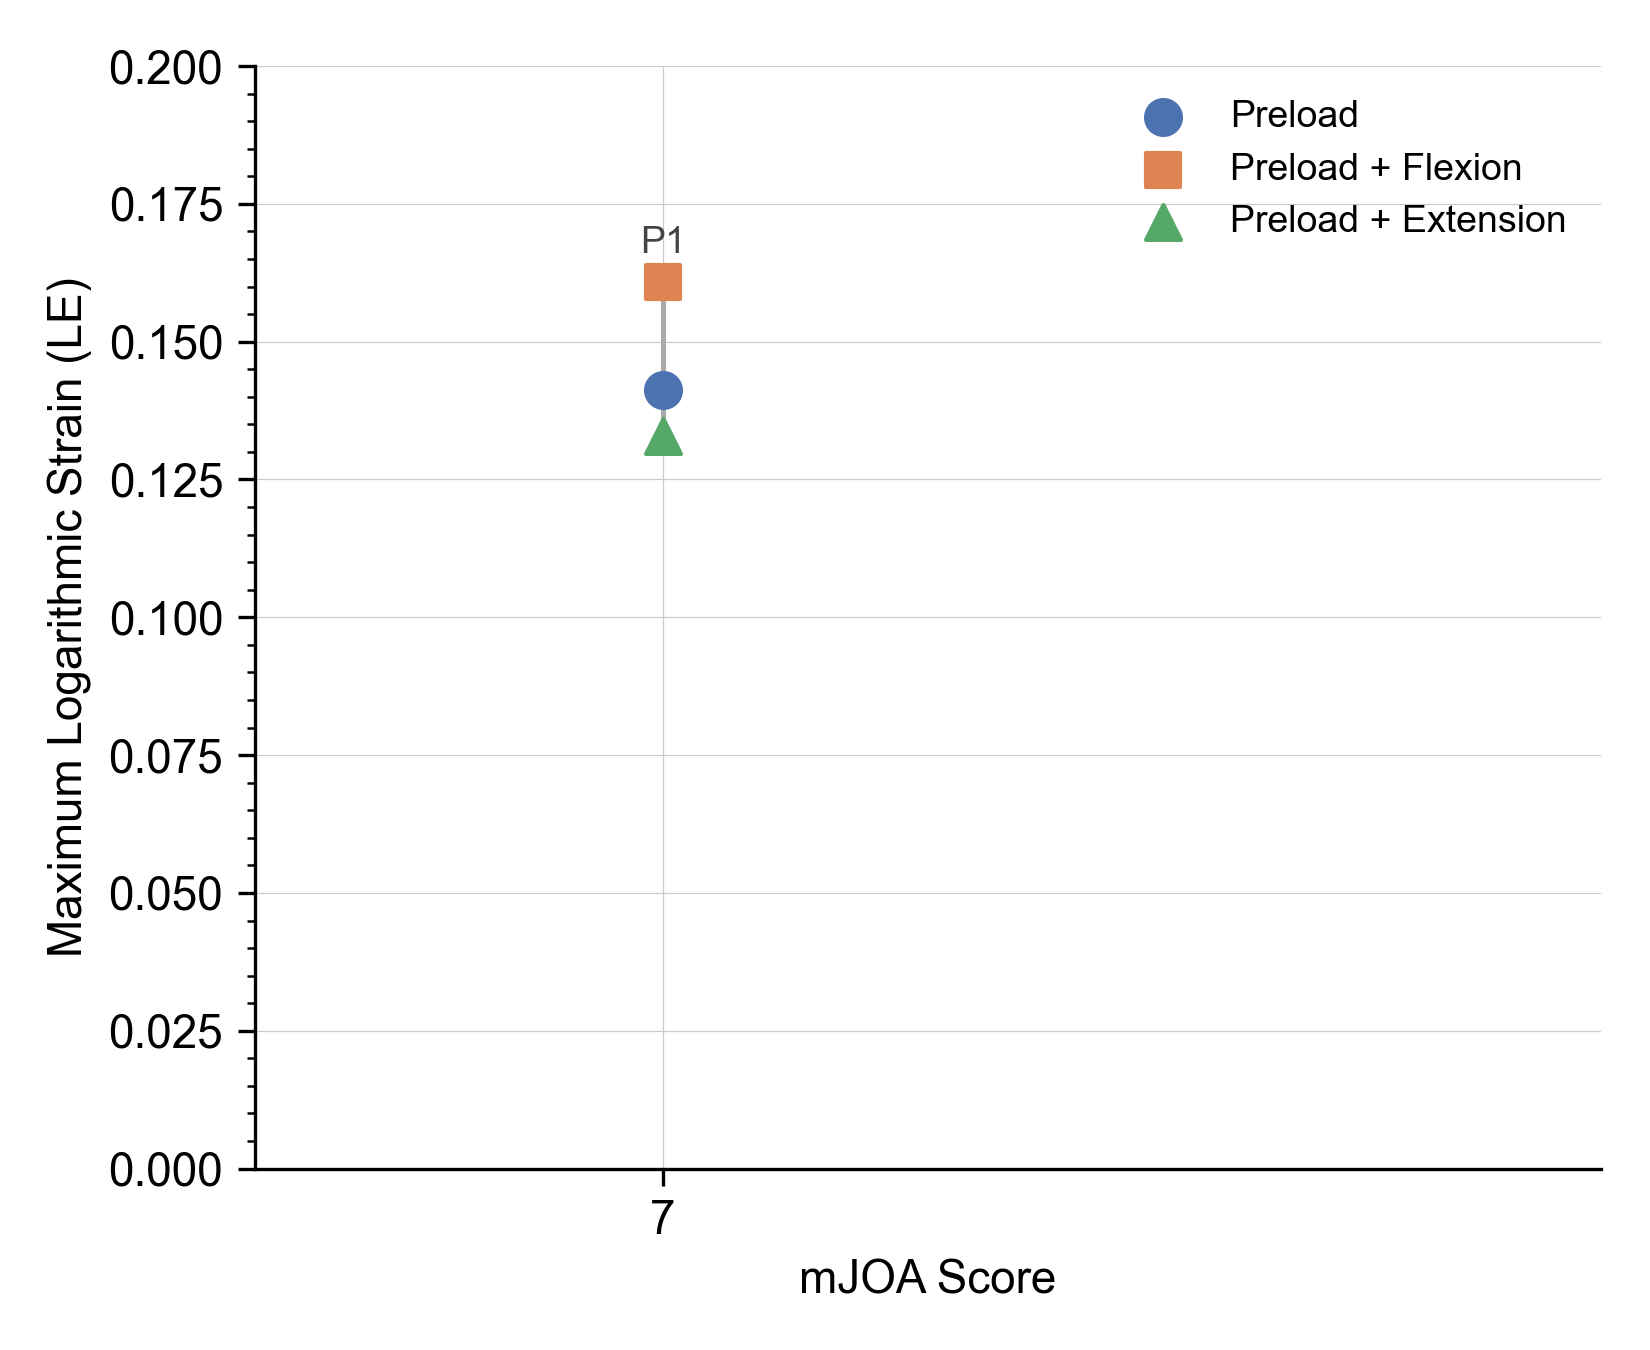
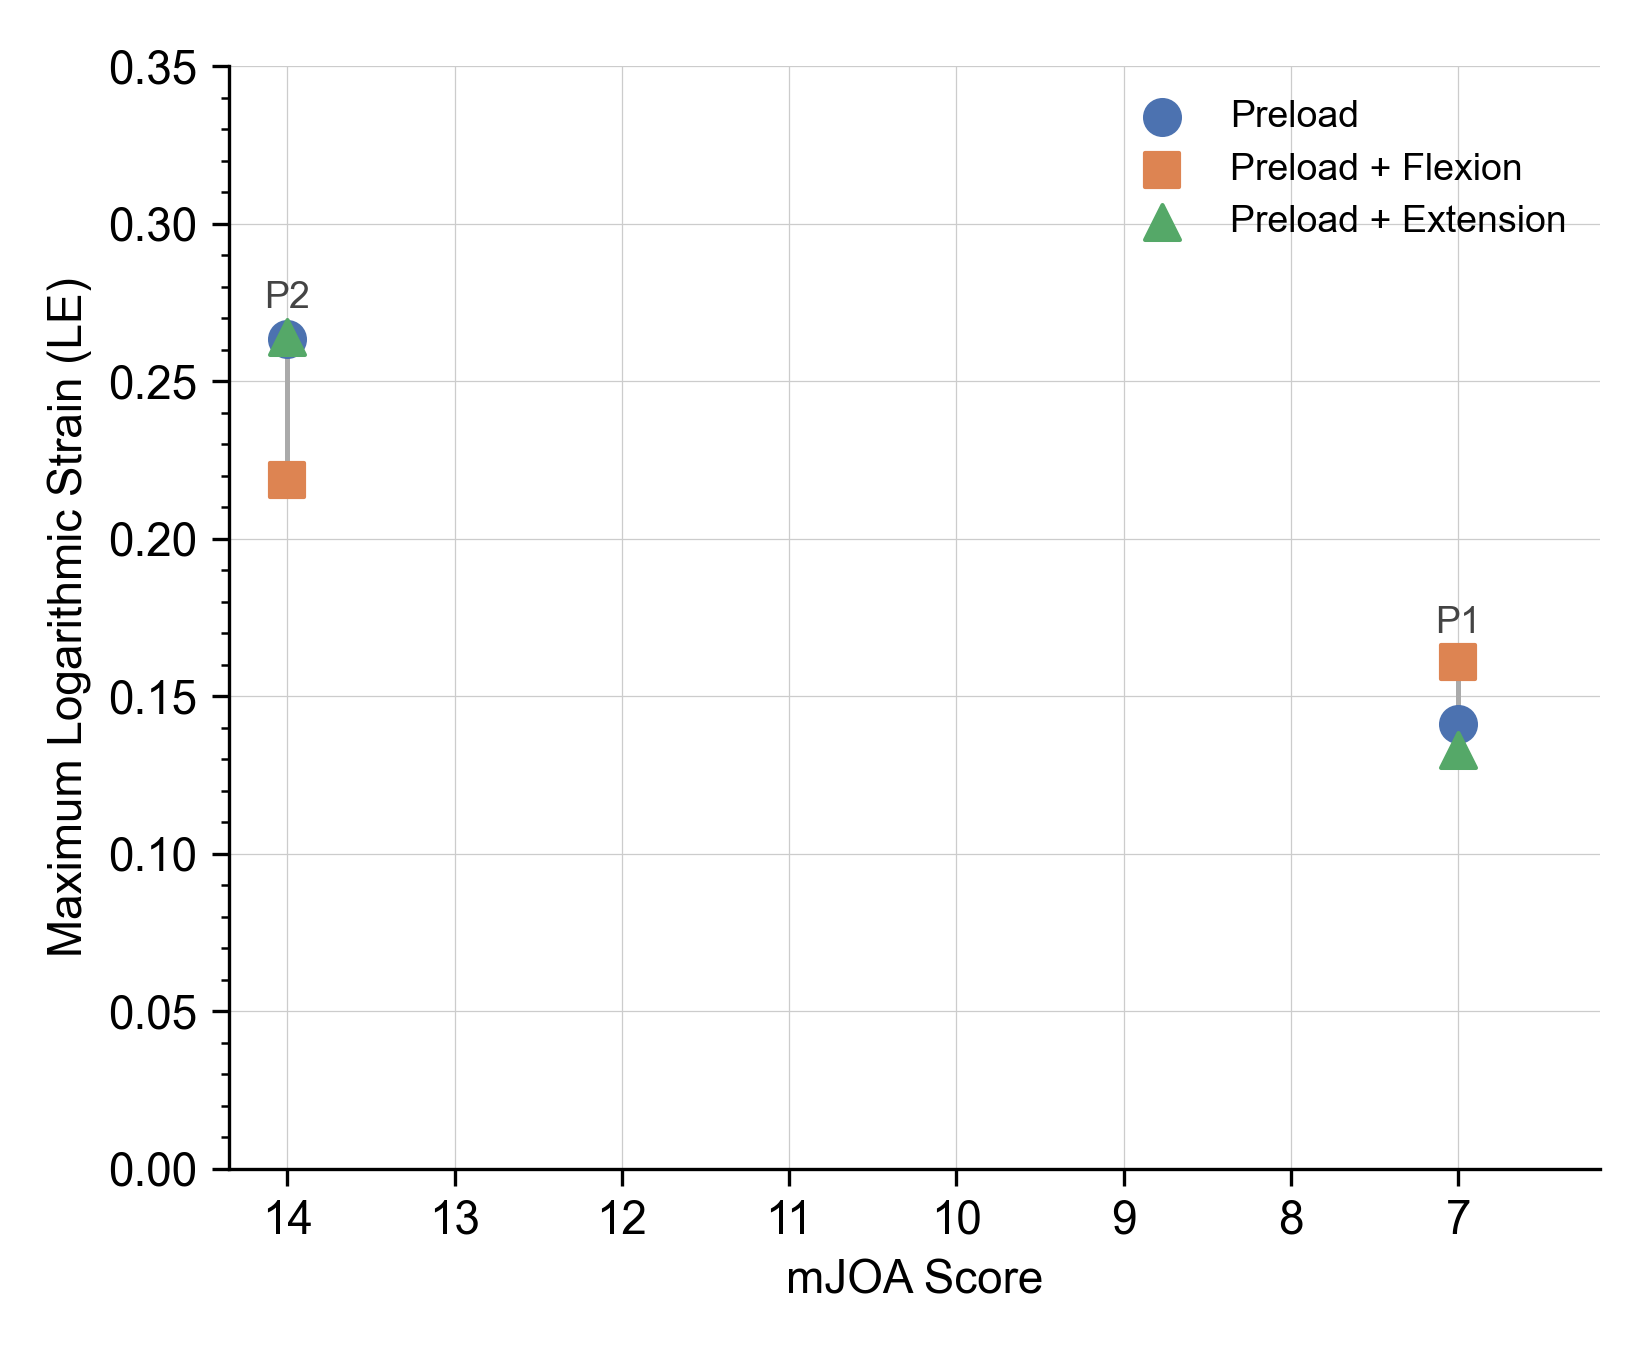
BRC update for patient 2

diff --git a/DCM_Scripting/BRC_graph.py b/DCM_Scripting/BRC_graph.py
@@ -56,7 +56,7 @@ for i, (mjoa, row) in enumerate(df.iterrows()):
 
 ax.set_xlabel("mJOA Score")
 ax.set_ylabel("Maximum Logarithmic Strain (LE)")
-ax.set_ylim(0,0.2)
+ax.set_ylim(0, 0.35)
 ax.xaxis.set_major_locator(ticker.MultipleLocator(1))
 ax.yaxis.set_minor_locator(ticker.AutoMinorLocator())
 ax.grid(axis="both", linewidth=0.3, color="#cccccc", zorder=0)